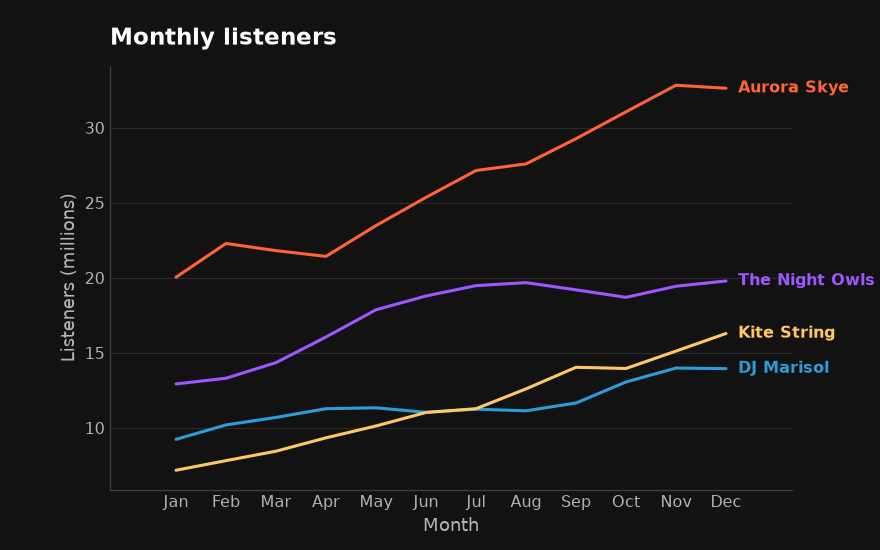
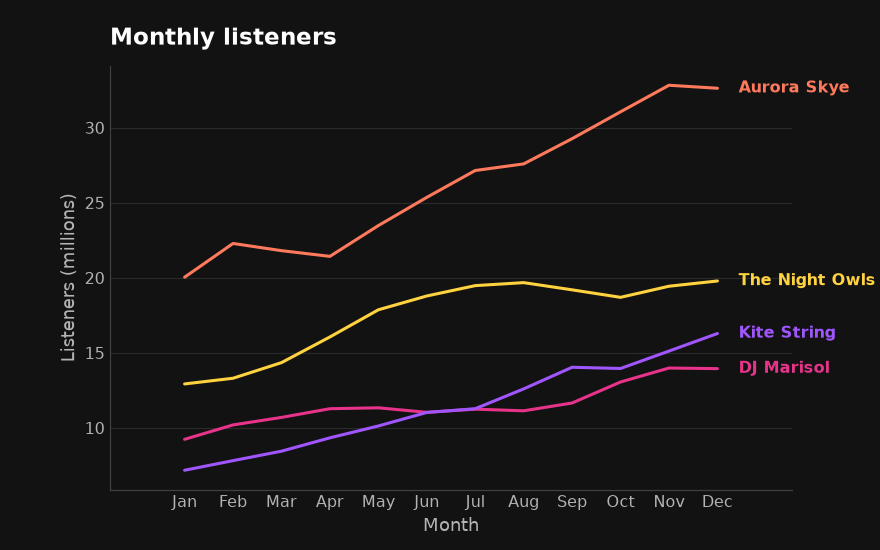
Accessibility pass, direct-label de-overlap, and PyPI packaging
Accessibility:
- Retune the categorical palette to coral/yellow/magenta/violet/blue; verified
  with a CVD simulation (Machado 2009 + CIELAB ΔE) to keep min pairwise ΔE ~21
  under deuteranopia/protanopia/tritanopia (was 10.6 for orange/pink)
- Lighten the dark-theme muted gray to #6B6B6B for WCAG >=3:1 on #121212
- Add tools/check_cvd.py (pure Python; also emits examples/palette_cvd.png)

Line labels:
- Direct end-labels are now pushed apart to keep a minimum vertical gap, with
  thin leader lines when a label is moved off its endpoint

Packaging (PyPI-ready):
- Add LICENSE (MIT); pyproject license-files, dev extras, Issues URL
- Builds clean; `twine check` passes on sdist + wheel with modern tooling
- README: PyPI install + accessibility section

Claude-Session: https://claude.ai/code/session_01HoPvfNzWSb4bZWodumAQL8

diff --git a/tools/check_cvd.py b/tools/check_cvd.py
@@ -1,0 +1,142 @@
+"""Colorblindness (CVD) check for the spotviz categorical palette.
+
+Simulates deuteranopia / protanopia / tritanopia using the Machado et al. (2009)
+matrices (applied in linear RGB), converts to CIELAB, and reports the minimum
+pairwise ΔE (CIE76) among the palette under normal and CVD vision. A small
+minimum ΔE means two categories look alike to that viewer.
+
+Also reports WCAG contrast of the text grays against the dark background.
+
+Dev tool only — pure Python + matplotlib (for the optional swatch image); not
+part of the shipped package. Run:  python tools/check_cvd.py
+"""
+
+import math
+from pathlib import Path
+
+import matplotlib.pyplot as plt
+
+import spotviz as sv
+
+# Machado et al. 2009 CVD matrices at severity 1.0 (applied to linear RGB).
+CVD = {
+    "deuteranopia": [
+        [0.367322, 0.860646, -0.227968],
+        [0.280085, 0.672501, 0.047413],
+        [-0.011820, 0.042940, 0.968881],
+    ],
+    "protanopia": [
+        [0.152286, 1.052583, -0.204868],
+        [0.114503, 0.786281, 0.099216],
+        [-0.003882, -0.048116, 1.051998],
+    ],
+    "tritanopia": [
+        [1.255528, -0.076749, -0.178779],
+        [-0.078411, 0.930809, 0.147602],
+        [0.004733, 0.691367, 0.303900],
+    ],
+}
+
+
+def hex_to_rgb(h):
+    h = h.lstrip("#")
+    return tuple(int(h[i:i + 2], 16) / 255 for i in (0, 2, 4))
+
+
+def srgb_to_linear(c):
+    return c / 12.92 if c <= 0.04045 else ((c + 0.055) / 1.055) ** 2.4
+
+
+def linear_to_srgb(c):
+    c = max(0.0, min(1.0, c))
+    return 12.92 * c if c <= 0.0031308 else 1.055 * c ** (1 / 2.4) - 0.055
+
+
+def apply_matrix(m, v):
+    return [sum(m[i][j] * v[j] for j in range(3)) for i in range(3)]
+
+
+def simulate(hexcolor, kind):
+    lin = [srgb_to_linear(c) for c in hex_to_rgb(hexcolor)]
+    out = apply_matrix(CVD[kind], lin)
+    return tuple(linear_to_srgb(c) for c in out)
+
+
+def rgb_to_lab(rgb):
+    # linear RGB -> XYZ (sRGB, D65) -> LAB
+    r, g, b = (srgb_to_linear(c) for c in rgb)
+    x = r * 0.4124 + g * 0.3576 + b * 0.1805
+    y = r * 0.2126 + g * 0.7152 + b * 0.0722
+    z = r * 0.0193 + g * 0.1192 + b * 0.9505
+    xn, yn, zn = 0.95047, 1.0, 1.08883
+    def f(t):
+        return t ** (1 / 3) if t > 0.008856 else 7.787 * t + 16 / 116
+    fx, fy, fz = f(x / xn), f(y / yn), f(z / zn)
+    return (116 * fy - 16, 500 * (fx - fy), 200 * (fy - fz))
+
+
+def delta_e(lab1, lab2):
+    return math.sqrt(sum((a - b) ** 2 for a, b in zip(lab1, lab2)))
+
+
+def relative_luminance(hexcolor):
+    r, g, b = (srgb_to_linear(c) for c in hex_to_rgb(hexcolor))
+    return 0.2126 * r + 0.7152 * g + 0.0722 * b
+
+
+def contrast_ratio(fg, bg):
+    l1, l2 = relative_luminance(fg), relative_luminance(bg)
+    hi, lo = max(l1, l2), min(l1, l2)
+    return (hi + 0.05) / (lo + 0.05)
+
+
+def min_pairwise(palette, kind=None):
+    labs = []
+    for h in palette:
+        rgb = simulate(h, kind) if kind else hex_to_rgb(h)
+        labs.append(rgb_to_lab(rgb))
+    worst, pair = math.inf, None
+    for i in range(len(labs)):
+        for j in range(i + 1, len(labs)):
+            d = delta_e(labs[i], labs[j])
+            if d < worst:
+                worst, pair = d, (i, j)
+    return worst, pair
+
+
+def report(palette):
+    print(f"palette: {palette}")
+    print(f"{'vision':<14}{'min ΔE':>8}   closest pair")
+    for kind in (None, "deuteranopia", "protanopia", "tritanopia"):
+        worst, (i, j) = min_pairwise(palette, kind)
+        name = kind or "normal"
+        flag = "  <-- weak" if worst < 15 else ""
+        print(f"{name:<14}{worst:>8.1f}   {palette[i]} / {palette[j]}{flag}")
+    print("\nWCAG contrast on dark background (#121212):")
+    dark = sv.theme_colors("dark")
+    for label, col in [("white text", dark["text"]), ("gray subtext", dark["subtext"]),
+                       ("green accent", dark["accent"]), ("muted gray", dark["muted"])]:
+        cr = contrast_ratio(col, dark["bg"])
+        print(f"  {label:<14} {cr:5.2f}:1")
+
+
+def swatch_image(palette, path):
+    kinds = [None, "deuteranopia", "protanopia", "tritanopia"]
+    fig, axes = plt.subplots(len(kinds), 1, figsize=(8, 4.2))
+    for ax, kind in zip(axes, kinds):
+        for k, h in enumerate(palette):
+            rgb = simulate(h, kind) if kind else hex_to_rgb(h)
+            ax.add_patch(plt.Rectangle((k, 0), 1, 1, color=rgb))
+        ax.set_xlim(0, len(palette)); ax.set_ylim(0, 1)
+        ax.set_yticks([]); ax.set_xticks([])
+        ax.set_ylabel(kind or "normal", rotation=0, ha="right", va="center")
+    fig.suptitle("spotviz categorical palette under CVD simulation")
+    fig.tight_layout()
+    fig.savefig(path, dpi=140)
+    print(f"\nwrote {path}")
+
+
+if __name__ == "__main__":
+    report(sv.CATEGORICAL)
+    out = Path(__file__).resolve().parent.parent / "examples" / "palette_cvd.png"
+    swatch_image(sv.CATEGORICAL, out)

diff --git a/src/spotviz/line.py b/src/spotviz/line.py
@@ -131,14 +131,47 @@ def line(
 
 
 def _direct_labels(ax, xvals, series, colors, presentation):
-    """Place each series' name at its right end, colored to match the line."""
+    """Label each series at its right end, nudged apart so they don't collide.
+
+    End y-values are sorted and pushed upward to keep a minimum vertical gap;
+    the y-limit is extended if the stack needs it. When a label is moved off its
+    line's true endpoint, a thin leader line connects the two.
+    """
     size = 13 if presentation else 10.5
-    x_last = xvals[-1]
-    for name, yvals in series:
+    x_last = xvals[-1] if not isinstance(xvals[-1], str) else len(xvals) - 1
+
+    ymin, ymax = ax.get_ylim()
+    rng = (ymax - ymin) or 1.0
+    min_gap = 0.052 * rng * (size / 10.5)  # minimum spacing between labels
+
+    ends = sorted(((yvals[-1], name) for name, yvals in series),
+                  key=lambda t: t[0])
+    placed = []
+    for y, name in ends:
+        if placed and y - placed[-1][0] < min_gap:
+            y = placed[-1][0] + min_gap
+        placed.append((y, name))
+
+    # Make room if the pushed-up stack overflows the top.
+    top = placed[-1][0] if placed else ymax
+    if top > ymax:
+        ax.set_ylim(ymin, top + 0.03 * rng)
+
+    label_y = {name: y for y, name in placed}
+    y_end = {name: yvals[-1] for name, yvals in series}
+    xr = (max(_as_num(xvals)) - min(_as_num(xvals))) or 1.0
+    pad = 0.02 * xr
+
+    for name in label_y:
+        ly, ye = label_y[name], y_end[name]
+        if abs(ly - ye) > 1e-9:  # moved -> draw a thin leader
+            ax.plot([x_last, x_last + pad], [ye, ly],
+                    color=colors[name], linewidth=0.9, alpha=0.55,
+                    zorder=1, solid_capstyle="round")
         ax.annotate(
             f" {name}",
-            xy=(x_last, yvals[-1]),
-            xytext=(4, 0),
+            xy=(x_last + pad, ly),
+            xytext=(3, 0),
             textcoords="offset points",
             va="center",
             ha="left",
@@ -147,4 +180,11 @@ def _direct_labels(ax, xvals, series, colors, presentation):
             fontweight="bold",
         )
     # Give the labels room on the right.
-    ax.margins(x=0.12)
+    ax.margins(x=0.14)
+
+
+def _as_num(xvals):
+    """x positions as numbers (categorical strings map to 0..n-1)."""
+    if len(xvals) and isinstance(xvals[-1], str):
+        return list(range(len(xvals)))
+    return list(xvals)

diff --git a/src/spotviz/palette.py b/src/spotviz/palette.py
@@ -17,15 +17,18 @@ WHITE = "#FFFFFF"
 ACCENT = GREEN
 
 # --- categorical palette (multi-series) --------------------------------------
-# Vivid but distinct, checked to stay separable under deuteranopia/protanopia.
-# Spotify Green is intentionally NOT here: green stays reserved for the accent,
-# so it keeps its meaning and never competes as "category 3".
+# Vivid but distinct, and CVD-tuned: verified with a colorblindness simulation
+# (Machado 2009 + CIELAB ΔE, see tools/check_cvd.py) to keep every pair clearly
+# separable under deuteranopia, protanopia, and tritanopia — minimum pairwise
+# ΔE ≈ 21 across all three. Spotify Green is intentionally NOT here: green stays
+# reserved for the accent, so it keeps its meaning and never competes as
+# "category 3".
 CATEGORICAL = [
-    "#FF6437",  # orange
+    "#FF7A5C",  # coral
+    "#FFD23F",  # yellow
+    "#E8338A",  # magenta
     "#A056FF",  # violet
     "#2D9CDB",  # blue
-    "#FFC864",  # yellow
-    "#EB5C8E",  # pink
 ]
 
 #: Sequential/continuous colormap — matplotlib's perceptually-uniform viridis.

diff --git a/src/spotviz/_core.py b/src/spotviz/_core.py
@@ -20,7 +20,7 @@ THEME = {
         "surface": BLACK,      # #191414 alternate surface
         "text": WHITE,         # titles / primary text
         "subtext": "#B3B3B3",  # Spotify "essential gray" — ticks, axis labels
-        "muted": "#5E5E5E",    # de-emphasized marks (visible on near-black)
+        "muted": "#6B6B6B",    # de-emphasized marks (WCAG >=3:1 on near-black)
         "grid": "#2A2A2A",     # subtle low-contrast gridlines
         "spine": "#404040",    # baseline / axis line
         "accent": ACCENT,

diff --git a/README.md b/README.md
@@ -36,6 +36,12 @@ order is **color → declutter → typography → helpers**:
 ## Installation
 
 ```bash
+pip install spotviz
+```
+
+Or from source:
+
+```bash
 git clone https://github.com/ahzengyang/msds610_viz.git
 cd msds610_viz
 pip install -e .
@@ -113,6 +119,18 @@ sv.apply_theme("dark")                   # global; reversible via plt.rcdefaults
 | `plt.style.use("spotify-dark" \| "spotify-light" \| ...)` | Named styles (registered on import). |
 | `savefig(fig, path)` | Save preserving the themed background. |
 
+## Accessibility
+
+The categorical palette is verified with a colorblindness simulation
+(`tools/check_cvd.py`): Machado (2009) matrices for deuteranopia / protanopia /
+tritanopia, then CIELAB ΔE between every pair. The shipped palette keeps a
+minimum pairwise ΔE of ≈ 21 under all three — no two categories collapse
+together — and the dark theme's text/accent/muted grays clear WCAG contrast on
+`#121212`. Categories are also paired with direct labels, never distinguished
+by hue alone.
+
+![Palette under CVD simulation](examples/palette_cvd.png)
+
 ## Project layout
 
 ```
@@ -134,7 +152,10 @@ msds610_viz/
 │   └── demo.py
 ├── tests/
 │   └── test_spotviz.py
+├── tools/
+│   └── check_cvd.py      # colorblindness / WCAG validation (dev tool)
 ├── pyproject.toml
+├── LICENSE
 └── README.md
 ```
 
